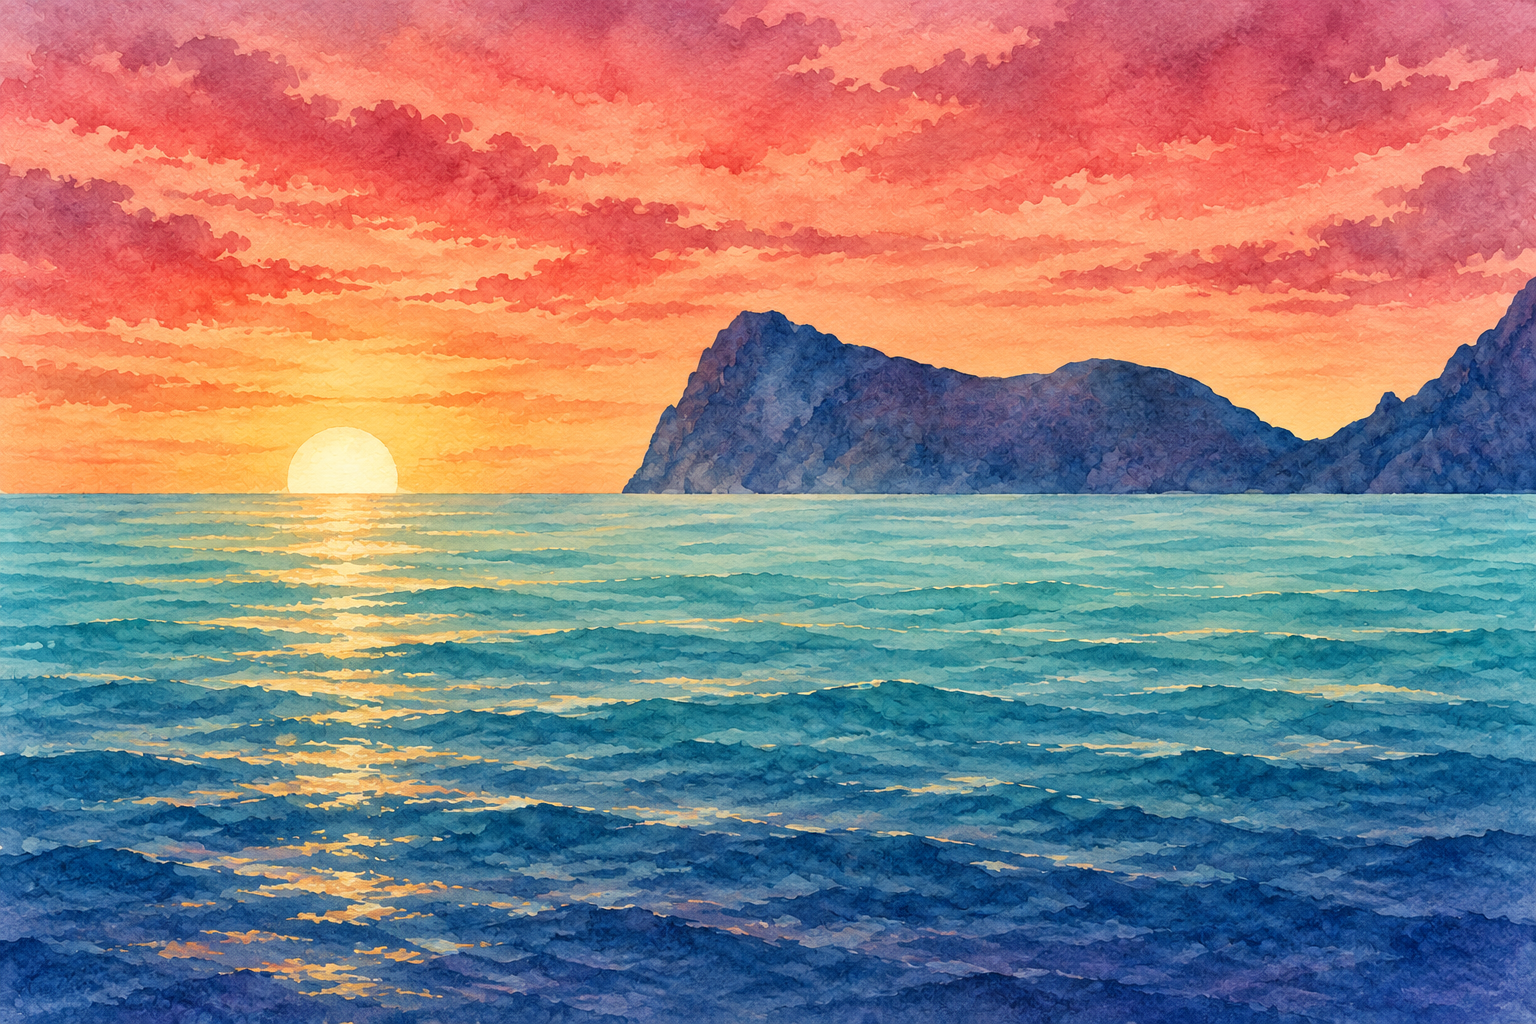
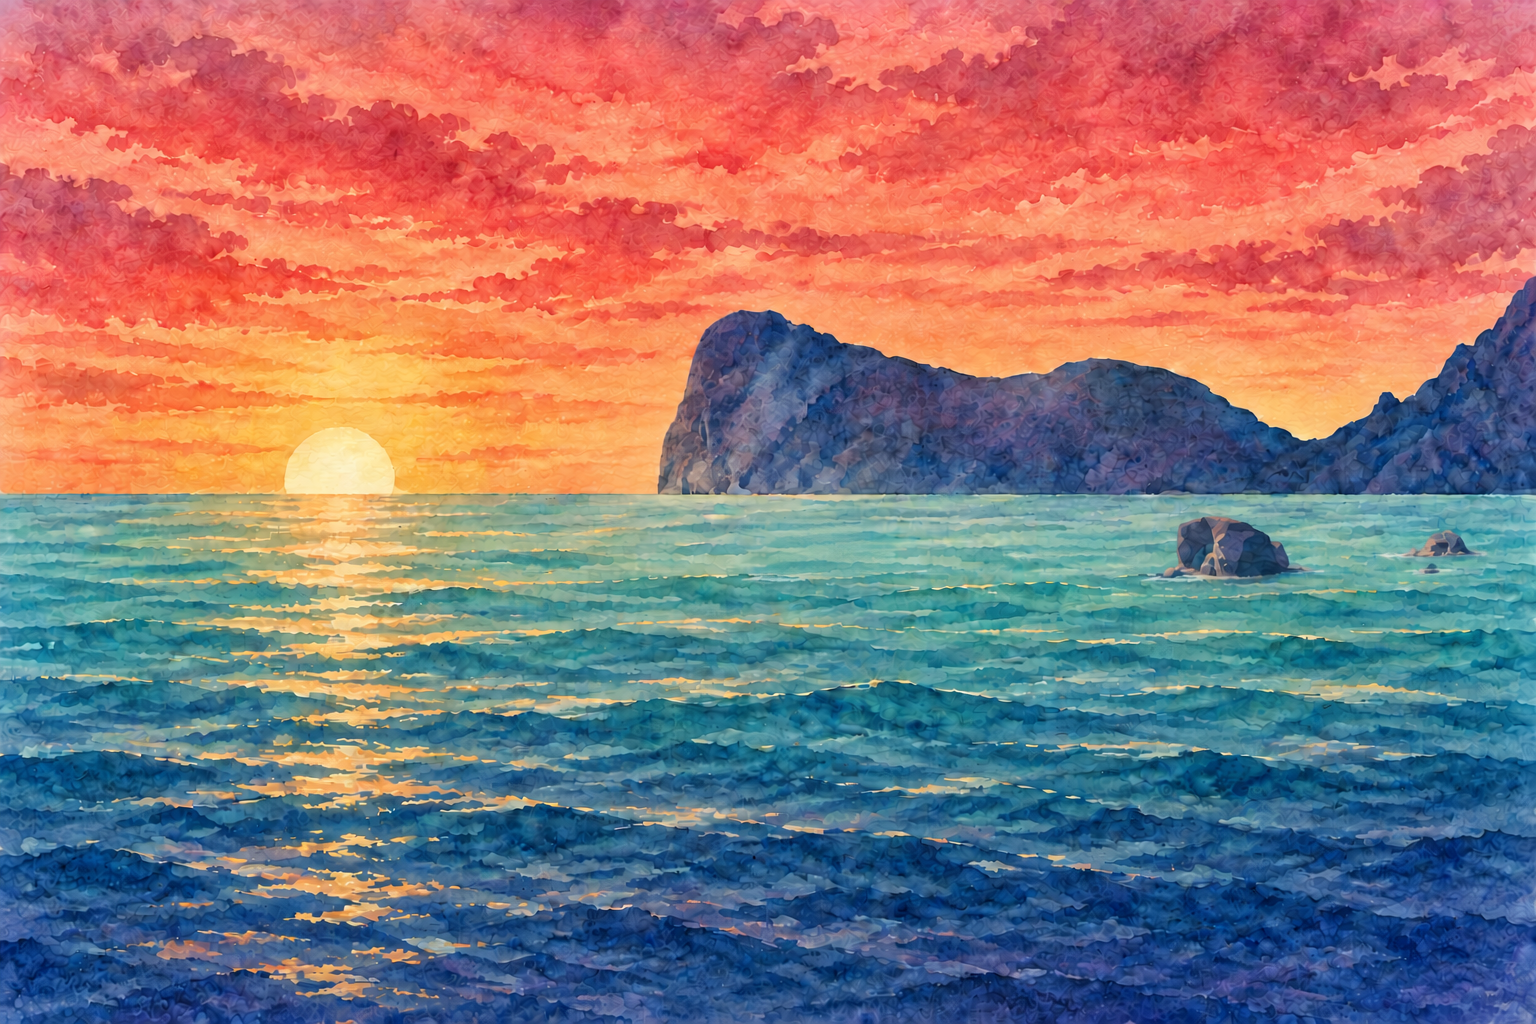
Fixed domain and new image with animal rocks.

diff --git a/public/index.html b/public/index.html
@@ -6,6 +6,8 @@
 <title>George &amp; Manos — 6 September 2027, Crete</title>
 <meta name="description" content="George and Manos are getting married in Lentas, Crete, on 6 September 2027. Travel, the week, where to stay, RSVP.">
 <meta name="robots" content="noindex, nofollow">
+<link rel="canonical" href="https://georgeandmanos.com/">
+<meta property="og:url" content="https://georgeandmanos.com/">
 <meta property="og:title" content="George &amp; Manos — 6 September 2027, Lentas, Crete">
 <meta property="og:description" content="Monday 6 September 2027, Lentas, Crete. We'll be there all week.">
 <link rel="preconnect" href="https://fonts.googleapis.com">
@@ -259,7 +261,7 @@
     <div class="lede">
       <p data-mode="savethedate" data-i18n="welcome.std">Consider this your save-the-date. We're getting married on the south coast of Crete, and we'd love you there. Formal invitations and the RSVP will follow in January; for now, everything you need to start planning is on this page — and one small question at the bottom.</p>
       <p data-mode="rsvp" data-i18n="welcome.p1">We know that joining us means a real journey — flights, ferries, time off work — and we're so grateful you're considering it. This page holds everything you need to plan the trip: the week's schedule, how to get to Crete, where to stay, and what we've taken care of for you.</p>
-      <p data-i18n="welcome.p2">If anything is unclear, write to us any time at <a href="mailto:hello@example.com" class="contact-email">hello@example.com</a>. We'd rather answer a hundred questions than have you stressed.</p>
+      <p data-i18n="welcome.p2">If anything is unclear, write to us any time at <a href="mailto:hello@georgeandmanos.com" class="contact-email">hello@georgeandmanos.com</a>. We'd rather answer a hundred questions than have you stressed.</p>
     </div>
     <p class="legend" data-i18n="welcome.legend">Legend says an African queen who loved this shore turned her animals to stone to guard it forever. The lion became the headland that gives Lentas its name — and we'll be celebrating under his gaze.</p>
   </div>
@@ -516,7 +518,7 @@
       <div class="field"><label for="f-msg" data-i18n="rsvp.msg">A message for us (optional)</label><textarea id="f-msg" name="message" rows="3"></textarea></div>
       <button class="btn dark" type="submit" data-i18n="rsvp.send">Send RSVP</button>
       <p class="form-status" id="rsvp-status" role="status"></p>
-      <p class="form-note" data-i18n="rsvp.trouble">Trouble with the form? Email us at <a href="mailto:hello@example.com" class="contact-email">hello@example.com</a>.</p>
+      <p class="form-note" data-i18n="rsvp.trouble">Trouble with the form? Email us at <a href="mailto:hello@georgeandmanos.com" class="contact-email">hello@georgeandmanos.com</a>.</p>
     </form>
   </div>
 </section>
@@ -581,7 +583,7 @@ const SITE = {
   weddingEndISO:  "2027-09-07T01:00:00+03:00",
   rsvpDeadline: { en: "1 March 2027", el: "1 Μαρτίου 2027" },
   bookByDate:   { en: "1 April 2027", el: "1 Απριλίου 2027" },
-  contactEmail: "hello@example.com",
+  contactEmail: "hello@georgeandmanos.com",
   heroImage: "hero-watercolour.png",   // the watercolour, next to index.html; set "" to fall back to the SVG illustration
   rsvpEndpoint: "/api/rsvp",          // same origin — the Worker in src/ handles /api/*
   paypal: "https://paypal.me/YOURHANDLE",
@@ -599,7 +601,7 @@ const EL = {
   "welcome.h":"Καλώς ήρθατε",
   "welcome.std":"Αυτό είναι το «κρατήστε την ημερομηνία» μας. Παντρευόμαστε στη νότια Κρήτη και θα θέλαμε πολύ να είστε εκεί. Οι επίσημες προσκλήσεις και η επιβεβαίωση παρουσίας θα σταλούν τον Ιανουάριο· προς το παρόν, εδώ θα βρείτε ό,τι χρειάζεστε για να αρχίσετε τον προγραμματισμό — και μια μικρή ερώτηση στο τέλος.",
   "welcome.p1":"Ξέρουμε ότι το να έρθετε σημαίνει ταξίδι — πτήσεις, άδεια από τη δουλειά — και σας ευγνωμονούμε που το σκέφτεστε. Εδώ θα βρείτε ό,τι χρειάζεστε: το πρόγραμμα της εβδομάδας, πώς θα φτάσετε, πού θα μείνετε και τι έχουμε φροντίσει εμείς.",
-  "welcome.p2":"Για οτιδήποτε, γράψτε μας στο <a href=\"mailto:hello@example.com\" class=\"contact-email\">hello@example.com</a>. Προτιμούμε να απαντήσουμε εκατό ερωτήσεις παρά να αγχωθείτε.",
+  "welcome.p2":"Για οτιδήποτε, γράψτε μας στο <a href=\"mailto:hello@georgeandmanos.com\" class=\"contact-email\">hello@georgeandmanos.com</a>. Προτιμούμε να απαντήσουμε εκατό ερωτήσεις παρά να αγχωθείτε.",
   "welcome.legend":"Λέει ο θρύλος πως μια βασίλισσα από την Αφρική, που αγάπησε αυτή την ακτή, πέτρωσε τα ζώα της για να τη φυλάνε για πάντα. Το λιοντάρι έγινε ο βράχος που έδωσε το όνομά του στον Λέντα — και θα γιορτάσουμε κάτω από το βλέμμα του.",
   "week.eyebrow":"Τρεις μέρες γιορτής — κι εμείς εκεί όλη την εβδομάδα","week.h":"Η εβδομάδα",
   "week.d1.label":"Κυριακή · 5 Σεπτεμβρίου","week.d1.h":"Βραδιά καλωσορίσματος","week.d1.a":"Ποτά και μεζέδες στον Λέβυνθο","week.d1.b":"Νωρίς για ύπνο — θα το χρειαστείτε","week.d1.note":"Χαλαρά. Ελάτε όπως είστε, γνωριστείτε με όλους πριν τη μεγάλη μέρα. Κερνάμε εμείς.",
@@ -648,7 +650,7 @@ const EL = {
   "rsvp.events":"Σε ποιες μέρες θα είστε;","rsvp.e1":"Κυριακή καλωσόρισμα","rsvp.e2":"Δευτέρα γάμος","rsvp.e3":"Τρίτη γεύμα","rsvp.e4":"Όλη την εβδομάδα",
   "rsvp.party":"Πόσα άτομα","rsvp.stay":"Πού θα μείνετε;","rsvp.nights":"Αν θέλετε δωμάτιο στη Φιλοξενία μέσω εμάς, ποιες νύχτες;","rsvp.diet":"Διατροφικές ανάγκες",
   "rsvp.lift":"Δεν θα έχουμε αυτοκίνητο — βρείτε μας παρέα με κάποιον που θα έχει","rsvp.song":"Ένα τραγούδι που θα σας σηκώσει στην πίστα","rsvp.msg":"Ένα μήνυμα για εμάς (προαιρετικό)","rsvp.send":"Αποστολή",
-  "rsvp.trouble":"Πρόβλημα με τη φόρμα; Γράψτε μας στο <a href=\"mailto:hello@example.com\" class=\"contact-email\">hello@example.com</a>.",
+  "rsvp.trouble":"Πρόβλημα με τη φόρμα; Γράψτε μας στο <a href=\"mailto:hello@georgeandmanos.com\" class=\"contact-email\">hello@georgeandmanos.com</a>.",
   "gifts.eyebrow":"Ειλικρινά","gifts.h":"Η παρουσία σας είναι το δώρο",
   "gifts.p1":"Ταξιδεύετε για να είστε μαζί μας — αυτό είναι το δώρο, και δεν περιμένουμε τίποτα άλλο. Σας παρακαλούμε, όχι κουτιά στο αεροπλάνο.",
   "gifts.p2":"Αν παρ' όλα αυτά θέλετε να τιμήσετε τη μέρα, μια μικρή συμβολή στο ταξίδι του μέλιτος θα ήταν ευπρόσδεκτη — αλλά το εννοούμε ότι είναι εντελώς προαιρετικό.",
